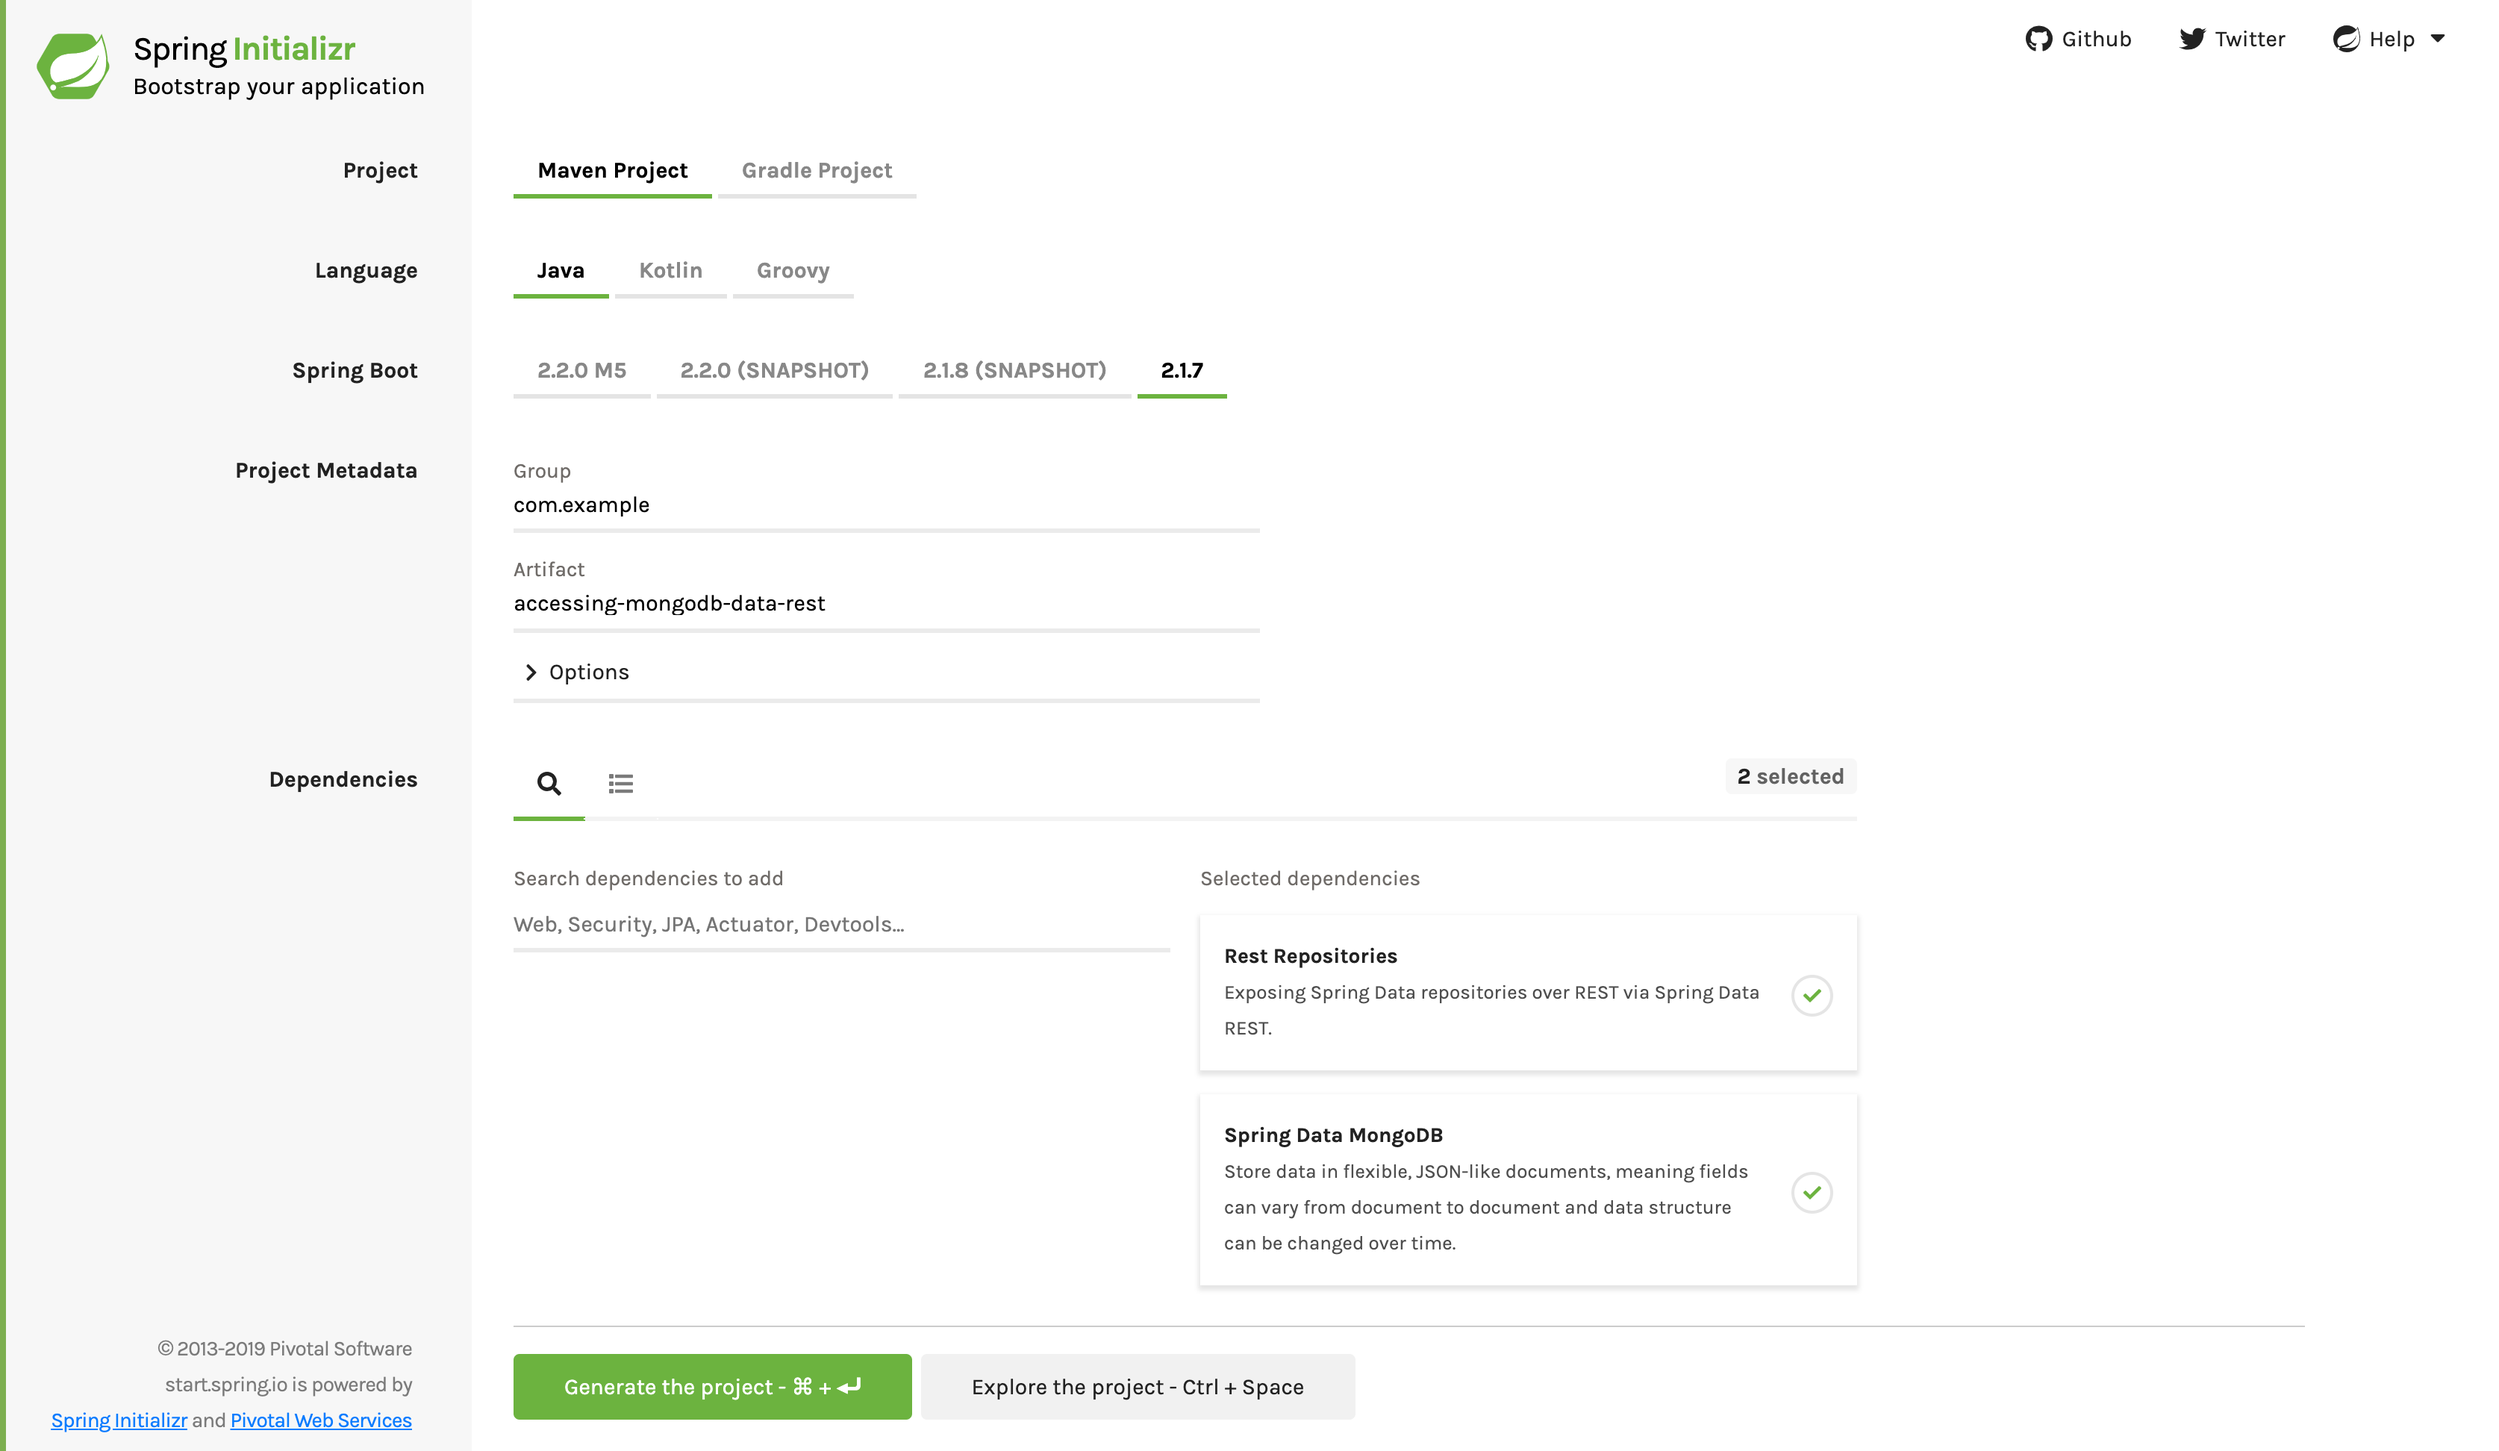
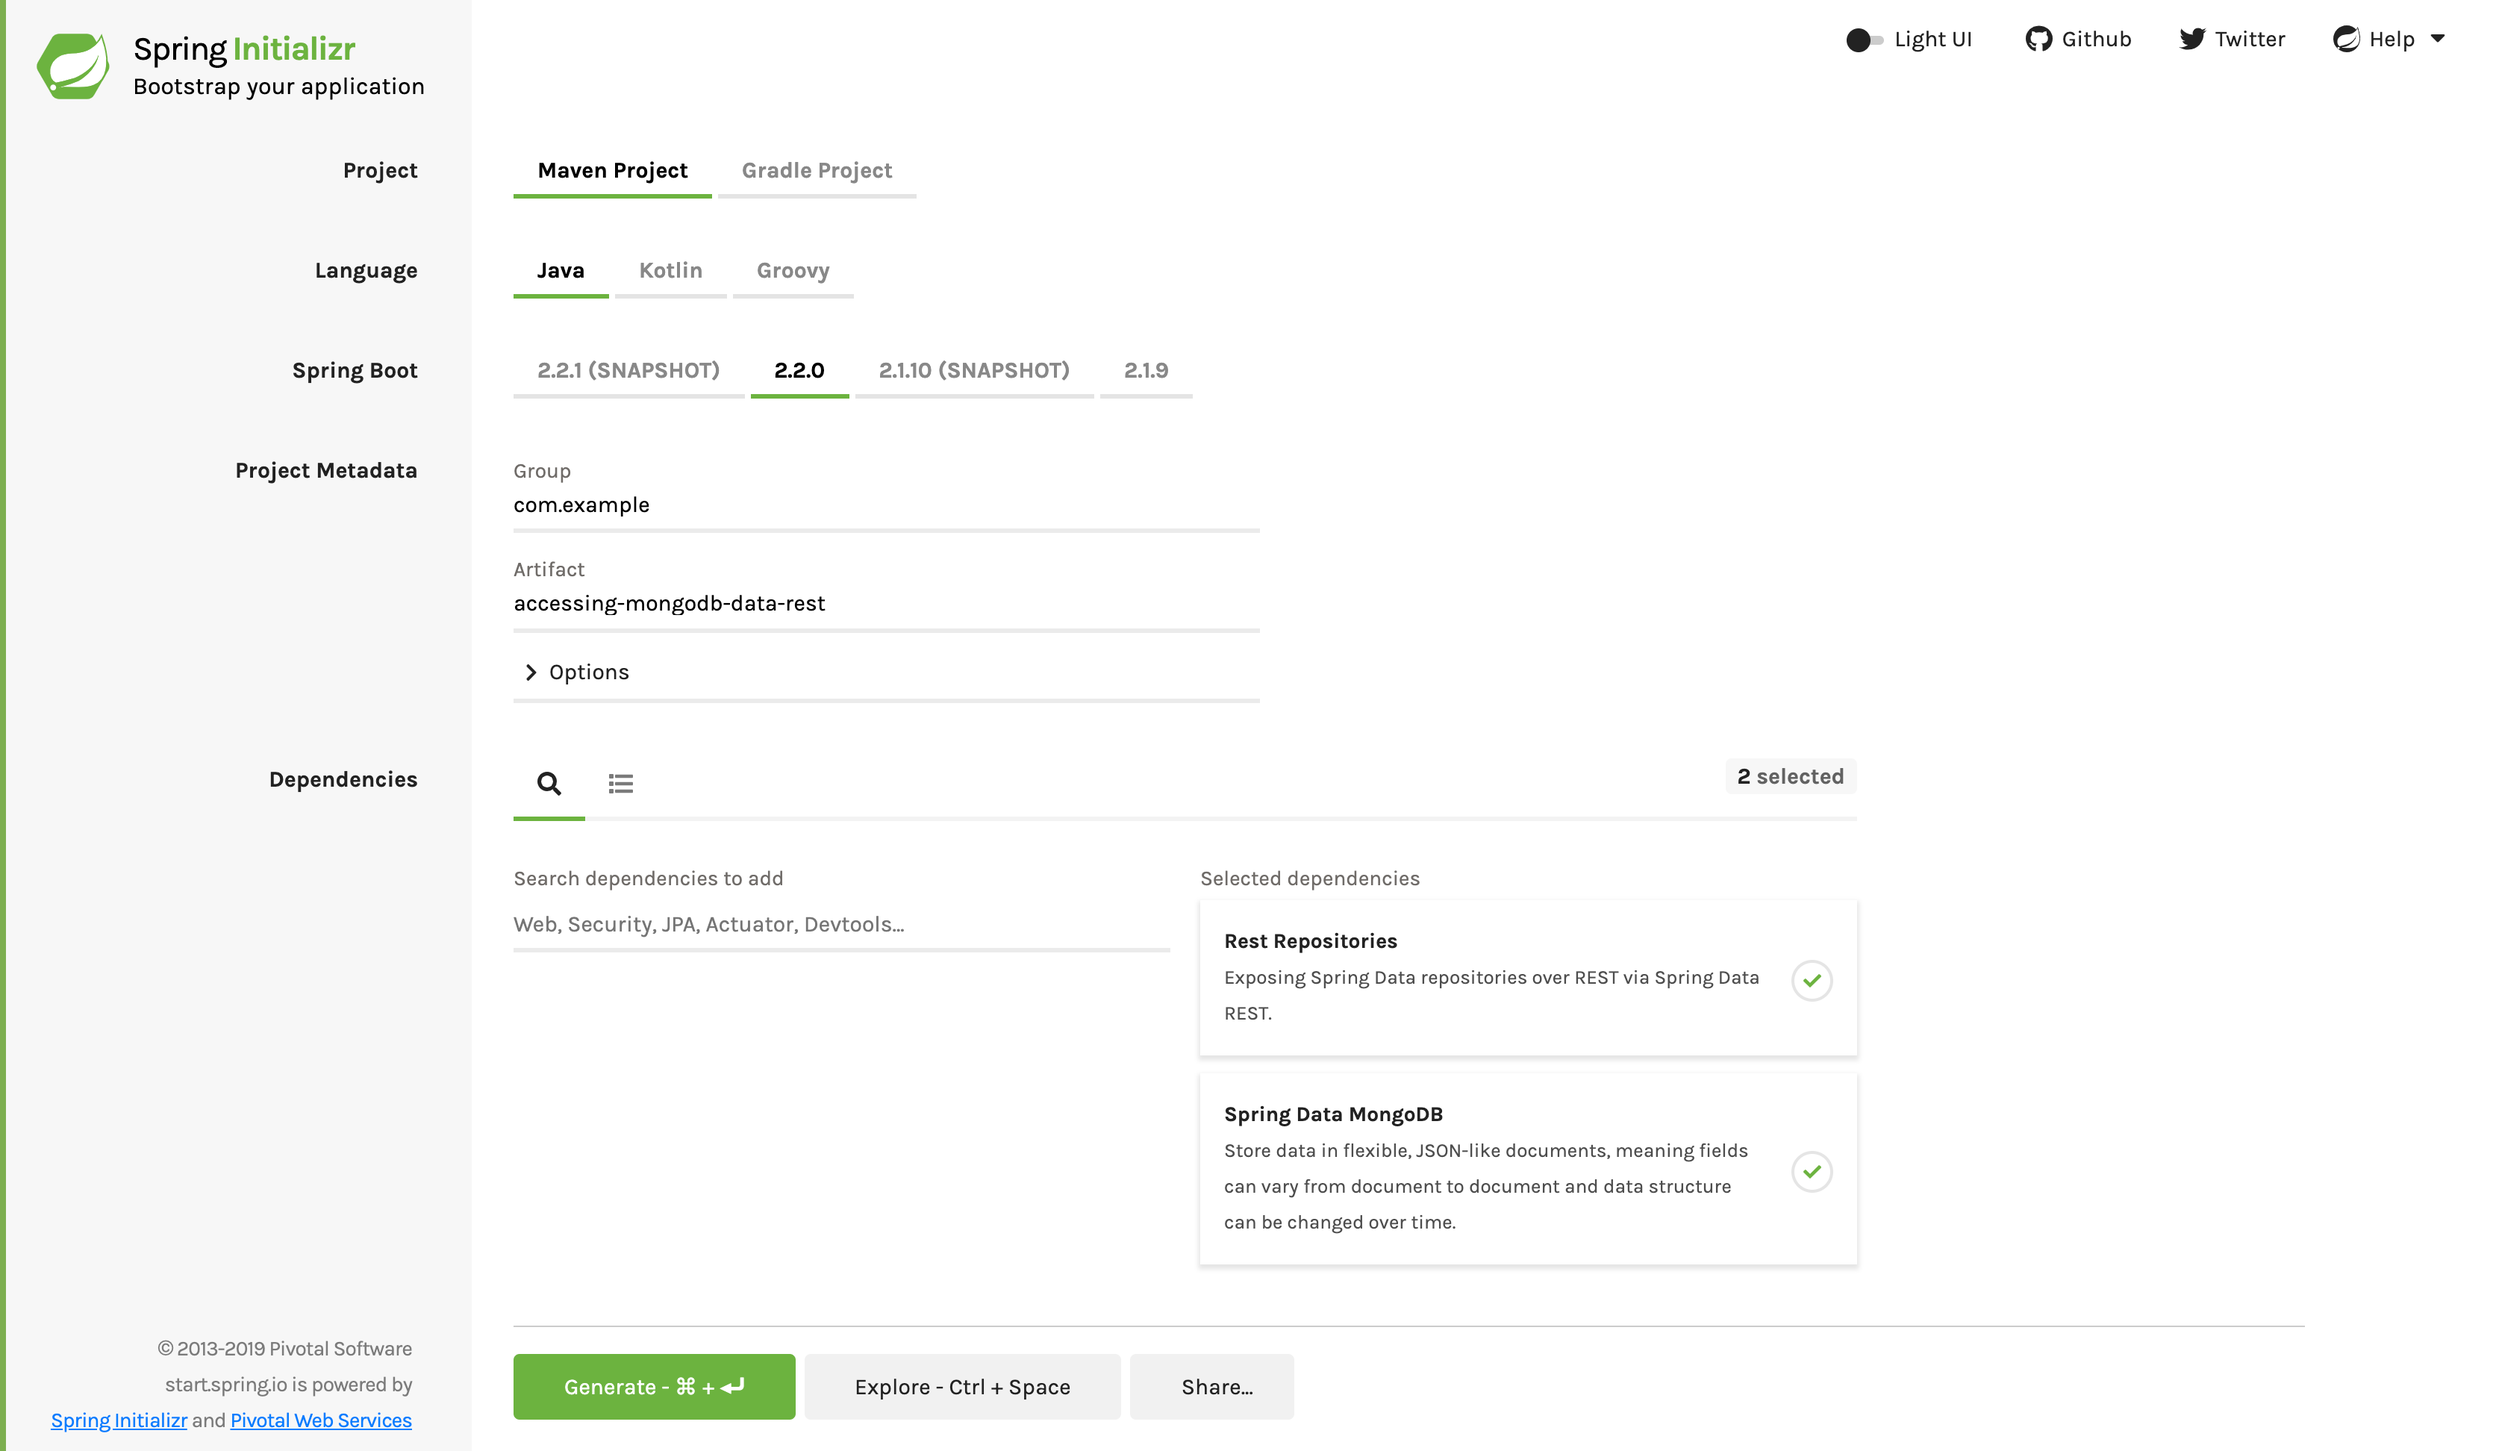
Upgrade to Spring Boot 2.2
I upgraded to Spring Boot 2.2 and upgraded the tests to JUnit 5. I had to upgrade the Gradle wrapper, too.

diff --git a/complete/src/test/java/com/example/accessingmongodbdatarest/AccessingMongodbDataRestApplicationTests.java b/complete/src/test/java/com/example/accessingmongodbdatarest/AccessingMongodbDataRestApplicationTests.java
@@ -16,15 +16,13 @@
 
 package com.example.accessingmongodbdatarest;
 
-import org.junit.Before;
-import org.junit.Test;
-import org.junit.runner.RunWith;
+import org.junit.jupiter.api.BeforeEach;
+import org.junit.jupiter.api.Test;
 
 import org.springframework.beans.factory.annotation.Autowired;
 import org.springframework.boot.test.autoconfigure.web.servlet.AutoConfigureMockMvc;
 import org.springframework.boot.test.context.SpringBootTest;
 import org.springframework.data.mongodb.core.query.Query;
-import org.springframework.test.context.junit4.SpringRunner;
 import org.springframework.test.web.servlet.MockMvc;
 import org.springframework.test.web.servlet.MvcResult;
 
@@ -33,7 +31,6 @@ import static org.springframework.test.web.servlet.request.MockMvcRequestBuilder
 import static org.springframework.test.web.servlet.result.MockMvcResultHandlers.*;
 import static org.springframework.test.web.servlet.result.MockMvcResultMatchers.*;
 
-@RunWith(SpringRunner.class)
 @SpringBootTest
 @AutoConfigureMockMvc
 public class AccessingMongodbDataRestApplicationTests {
@@ -44,7 +41,7 @@ public class AccessingMongodbDataRestApplicationTests {
 	@Autowired
 	private PersonRepository personRepository;
 
-	@Before
+	@BeforeEach
 	public void deleteAllBeforeTests() throws Exception {
 		personRepository.deleteAll();
 	}

diff --git a/initial/src/test/java/com/example/accessingmongodbdatarest/AccessingMongodbDataRestApplicationTests.java b/initial/src/test/java/com/example/accessingmongodbdatarest/AccessingMongodbDataRestApplicationTests.java
@@ -1,0 +1,13 @@
+package com.example.accessingmongodbdatarest;
+
+import org.junit.jupiter.api.Test;
+import org.springframework.boot.test.context.SpringBootTest;
+
+@SpringBootTest
+class AccessingMongodbDataRestApplicationTests {
+
+	@Test
+	void contextLoads() {
+	}
+
+}
